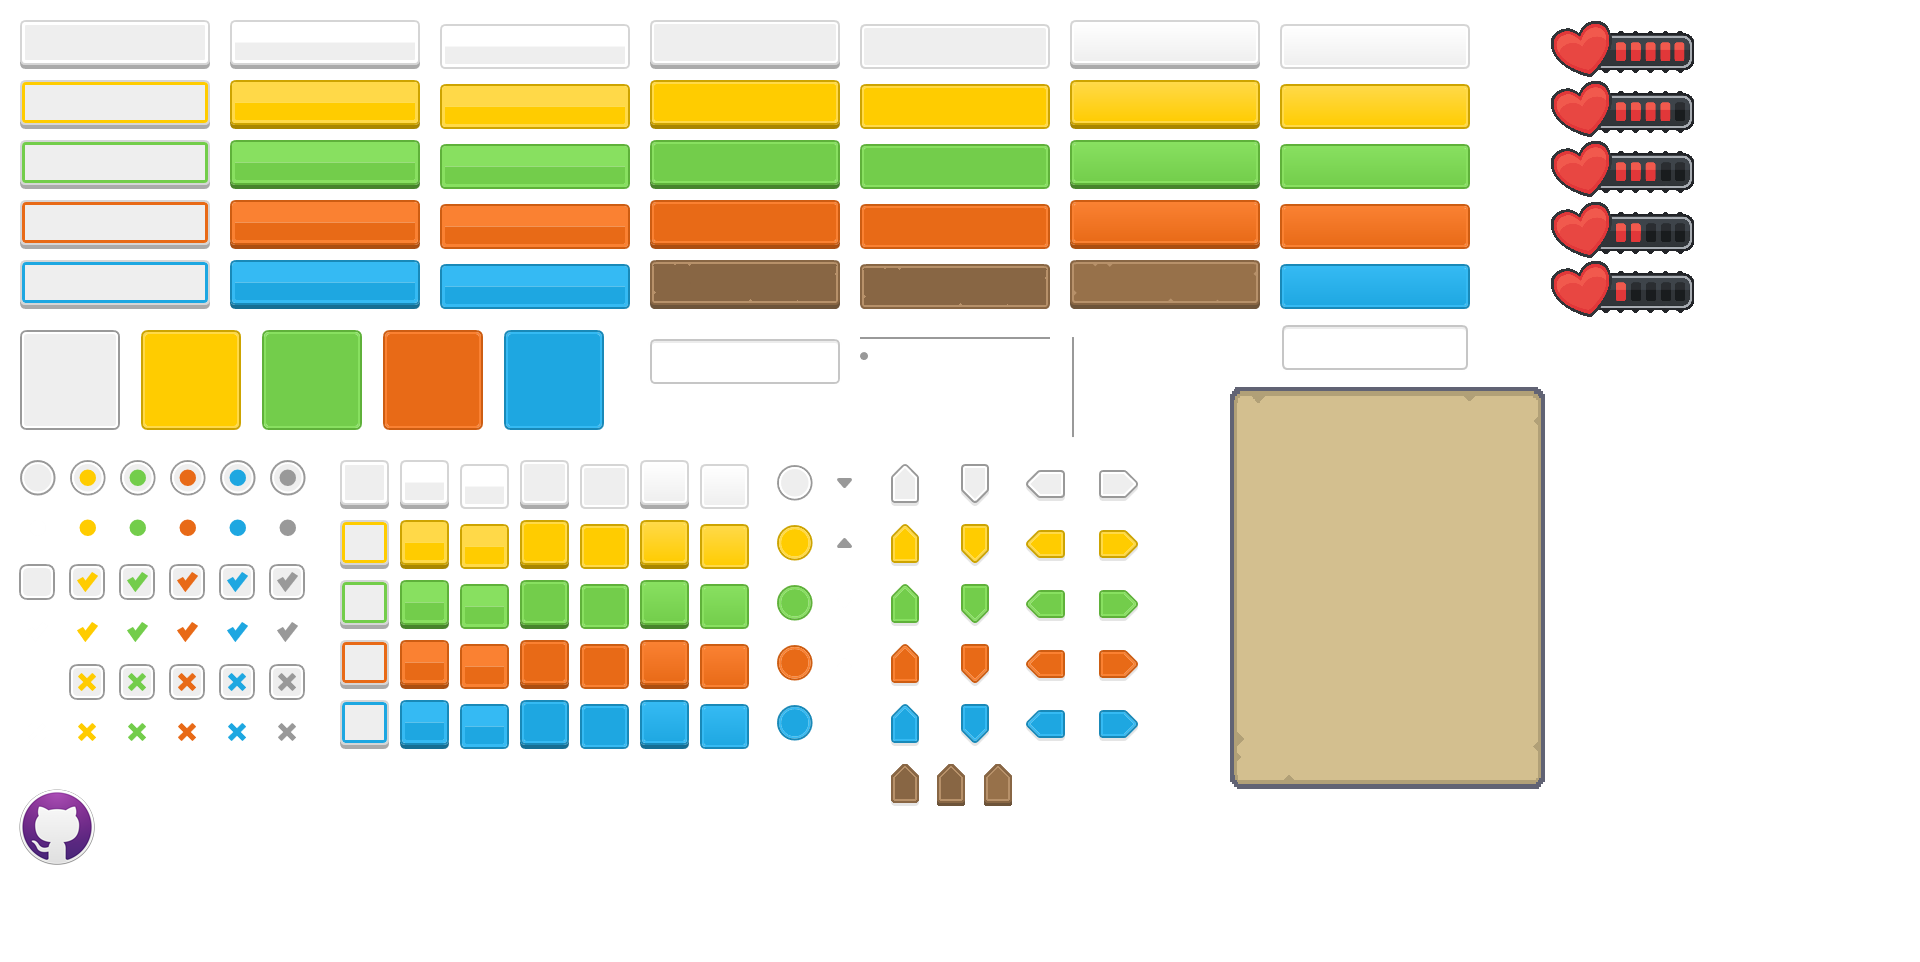
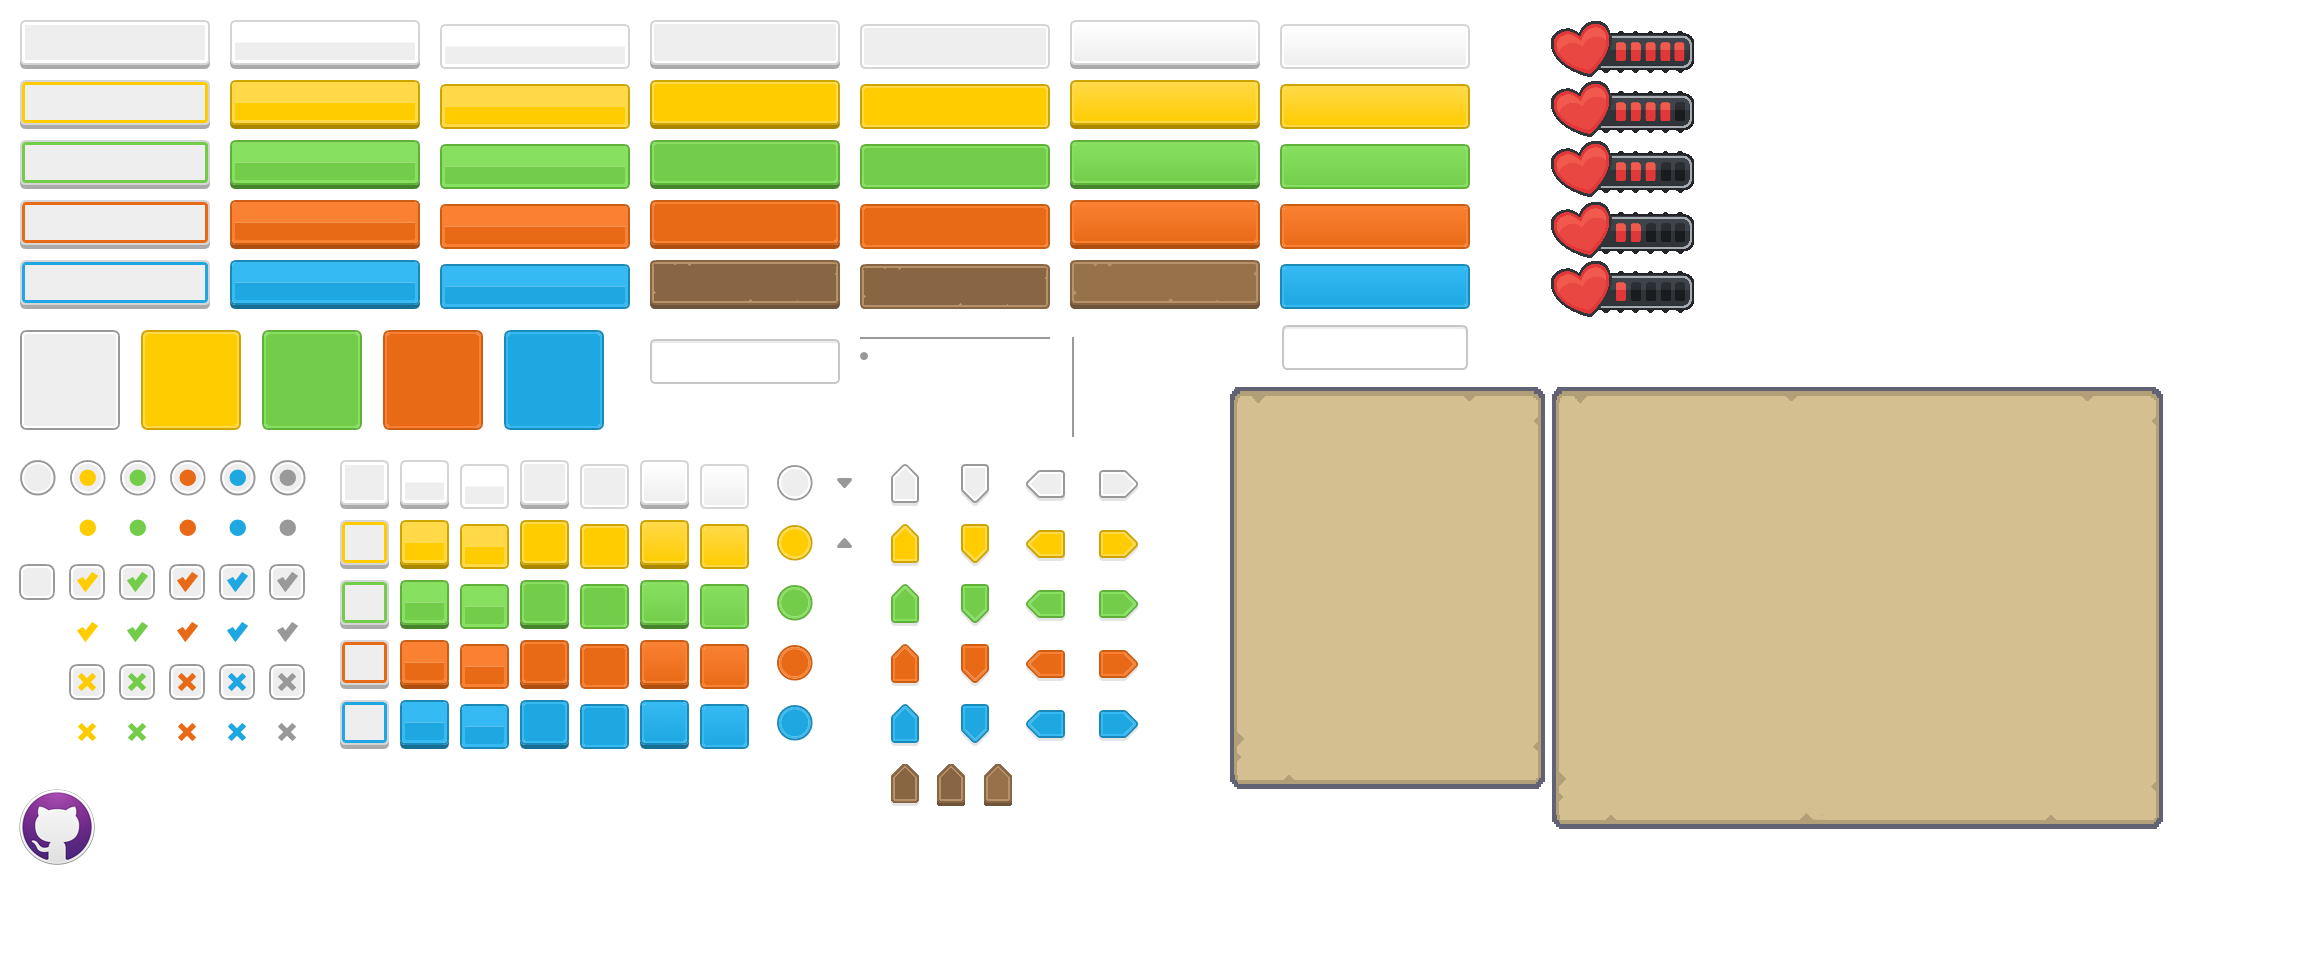
Settings button added

diff --git a/UpsideDown/Motor2D/j1Scene.cpp b/UpsideDown/Motor2D/j1Scene.cpp
@@ -114,6 +114,7 @@ bool j1Scene::Update(float dt)
 		{
 			if (iterator->data->funct == Function::PLAY)
 			{
+				App->entityManager->player->lifes = 3;
 				App->fade->FadeToBlack(this, this, 1.3f);
 				loading_tutorial = true;
 			}
@@ -122,6 +123,12 @@ bool j1Scene::Update(float dt)
 				start_pos = false;
 				App->fade->FadeToBlack(this, this, 1.0f);
 				loading_saved_game = true;
+			}
+			else if (iterator->data->funct == Function::SETTINGS )
+			{
+				pause = !pause;
+				Main_Menu->visible = !Main_Menu->visible;
+				Settings_Menu->visible = !Settings_Menu->visible;
 			}
 			else if (iterator->data->funct == Function::EXIT)
 			{
@@ -153,16 +160,22 @@ bool j1Scene::Update(float dt)
 							pause = !pause;
 							Menu->visible = !Menu->visible;
 						}
+						else if (iterator->data->funct == Function::LOAD && saved_game)
+						{
+							start_pos = false;
+							App->fade->FadeToBlack(this, this, 1.0f);
+							loading_saved_game = true;
+						}
 						else if (iterator->data->funct == Function::SAVE && actual_level != 3)
 						{
 							start_pos = false;
 							App->SaveGame();
 						}
-						else if (iterator->data->funct == Function::LOAD && saved_game )
+						
+						else if (iterator->data->funct == Function::SETTINGS)
 						{
-							start_pos = false;
-							App->fade->FadeToBlack(this, this, 1.0f);
-							loading_saved_game = true;
+							Menu->visible = !Menu->visible;
+							Settings_Menu->visible = !Settings_Menu->visible;
 						}
 						else if (iterator->data->funct == Function::MENU)
 						{
@@ -193,11 +206,7 @@ bool j1Scene::Update(float dt)
 
 	if (actual_level == 0)
 	{
-		App->render->camera.x -= 3*dt;
-		if (App->render->camera.x < -5350)
-		{
-			App->render->camera.x = -50;
-		}
+		App->entityManager->player->position.x = 150;
 	}
 
 	//F1 Starts form the very first level 
@@ -351,10 +360,37 @@ bool j1Scene::PostUpdate()
 
 	bool ret = true;
 
-	if (App->input->GetKey(SDL_SCANCODE_ESCAPE) == KEY_DOWN && App->fade->IsFading() == false && actual_level!=0)
+	if (App->input->GetKey(SDL_SCANCODE_ESCAPE) == KEY_DOWN && App->fade->IsFading() == false)
 	{
-		pause = !pause;
-		Menu->visible = !Menu->visible;
+		if (actual_level != 0)
+		{
+			if (Menu->visible)
+			{
+				pause = !pause;
+				Menu->visible = !Menu->visible;
+			}
+			else if (!Menu->visible && !Settings_Menu->visible)
+			{
+				pause = !pause;
+				Menu->visible = !Menu->visible;
+			}
+			else if (!Menu->visible && Settings_Menu->visible)
+			{
+				Menu->visible = !Menu->visible;
+				Settings_Menu->visible = !Settings_Menu->visible;
+			}
+		}
+		else
+		{
+			if (Settings_Menu->visible == true)
+			{
+				Settings_Menu->visible = !Settings_Menu->visible;
+				Main_Menu->visible = !Main_Menu->visible;
+				pause = !pause;
+			}
+		}
+		
+		
 	}
 	
 
@@ -496,18 +532,25 @@ void j1Scene::Create_UI_Elements()
 {
 	if (level_to_load->data->lvl == 0)
 	{
-		SDL_Rect title_rect = { 0, 0, 500, 300 };
-		App->gui->Create_Image(Element_type::IMAGE, { 275, 0 }, title_rect, true, false, false, title, nullptr);
 
-		Gui_Elements* Play = App->gui->Create_Button(Element_type::BUTTON, { 415, 400 }, { 1070, 260 , 190, 49 }, { 650, 260, 190, 49 }, { 860, 264, 190, 45 }, true, false, App->gui->GetAtlas(), Function::PLAY);
-		Gui_Elements* Load_Game = App->gui->Create_Button(Element_type::BUTTON, { 415, 500 }, { 1070, 260 , 190, 49 }, { 650, 260, 190, 49 }, { 860, 264, 190, 45 }, true, false, App->gui->GetAtlas(), Function::LOAD);
-		Gui_Elements* Exit = App->gui->Create_Button(Element_type::BUTTON, { 415, 600 }, { 1070, 260 , 190, 49 }, { 650, 260, 190, 49 }, { 860, 264, 190, 45 }, true, false, App->gui->GetAtlas(), Function::EXIT);
-		Gui_Elements* GitHub = App->gui->Create_Button(Element_type::BUTTON, { 946, 690 }, { 19, 789 , 77, 77 }, { 19, 789 , 77, 77 }, { 19, 789 , 77, 77 }, true, false, App->gui->GetAtlas(), Function::GITHUB);
+		Main_Menu = App->gui->Create_Image(Element_type::IMAGE, { 0, 0 }, {4000, 4000, (int)App->win->width, (int)App->win->height}, true, false, false, App->gui->GetAtlas(), nullptr);
+
+		SDL_Rect title_rect = { 0, 0, 500, 300 };
+		App->gui->Create_Image(Element_type::IMAGE, { 275, -20 }, title_rect, true, false, false, title, Main_Menu);
+
+		Gui_Elements* Play = App->gui->Create_Button(Element_type::BUTTON, { 415, 300 }, { 1070, 260 , 190, 49 }, { 650, 260, 190, 49 }, { 860, 264, 190, 45 }, true, false, App->gui->GetAtlas(), Function::PLAY, Main_Menu);
+		Gui_Elements* Load_Game = App->gui->Create_Button(Element_type::BUTTON, { 415, 370 }, { 1070, 260 , 190, 49 }, { 650, 260, 190, 49 }, { 860, 264, 190, 45 }, true, false, App->gui->GetAtlas(), Function::LOAD, Main_Menu);
+		Gui_Elements* MainMenu_Settings = App->gui->Create_Button(Element_type::BUTTON, { 415, 440 }, { 1070, 260 , 190, 49 }, { 650, 260, 190, 49 }, { 860, 264, 190, 45 }, true, false, App->gui->GetAtlas(), Function::SETTINGS, Main_Menu);
+		Gui_Elements* Credits = App->gui->Create_Button(Element_type::BUTTON, { 415, 510 }, { 1070, 260 , 190, 49 }, { 650, 260, 190, 49 }, { 860, 264, 190, 45 }, true, false, App->gui->GetAtlas(), Function::NONE, Main_Menu);
+		Gui_Elements* Exit = App->gui->Create_Button(Element_type::BUTTON, { 415, 580 }, { 1070, 260 , 190, 49 }, { 650, 260, 190, 49 }, { 860, 264, 190, 45 }, true, false, App->gui->GetAtlas(), Function::EXIT, Main_Menu);
+		//Gui_Elements* GitHub = App->gui->Create_Button(Element_type::BUTTON, { 946, 690 }, { 19, 789 , 77, 77 }, { 19, 789 , 77, 77 }, { 19, 789 , 77, 77 }, true, false, App->gui->GetAtlas(), Function::GITHUB);
 
 	
 		App->gui->Create_Label(Element_type::LABEL, { 57, 6 }, { 0,0,77, 30 }, true, true, "PLAY", { 255,255,255,0 }, App->font->default, Play);
-		App->gui->Create_Label(Element_type::LABEL, { 25, 6 }, { 0,0,140, 30 }, true, true, "LOAD GAME", { 255,255,255,0 }, App->font->default, Load_Game);
-		App->gui->Create_Label(Element_type::LABEL, { 57, 8 }, { 0,0,70, 30 }, true, true, "EXIT", { 255,255,255,0 }, App->font->default, Exit);
+		App->gui->Create_Label(Element_type::LABEL, { 30, 6 }, { 0,0,120, 30 }, true, true, "CONTINUE", { 255,255,255,0 }, App->font->default, Load_Game);
+		App->gui->Create_Label(Element_type::LABEL, { 30, 6 }, { 0,0,120, 30 }, true, true, "SETTINGS", { 255,255,255,0 }, App->font->default, MainMenu_Settings);
+		App->gui->Create_Label(Element_type::LABEL, { 40, 6 }, { 0,0,100, 30 }, true, true, "CREDITS", { 255,255,255,0 }, App->font->default, Credits);
+		App->gui->Create_Label(Element_type::LABEL, { 57, 6 }, { 0,0,70, 30 }, true, true, "EXIT", { 255,255,255,0 }, App->font->default, Exit);
 	}
 	else if (level_to_load->data->lvl == 3 || level_to_load->data->lvl == 1 || level_to_load->data->lvl == 2)
 	{
@@ -531,8 +574,8 @@ void j1Scene::Create_UI_Elements()
 		}
 		
 		Menu = App->gui->Create_Image(Element_type::IMAGE, { 355, 200 }, { 1230, 387, 315, 402 }, false, false, false, App->gui->GetAtlas());
-
-		Resume = App->gui->Create_Button(Element_type::BUTTON, { 62, 50 }, { 1070, 260 , 190, 49 }, { 650, 260, 190, 49 }, { 860, 264, 190, 45 }, false, false, App->gui->GetAtlas(), Function::RESUME, Menu);
+		
+		Gui_Elements* Resume = App->gui->Create_Button(Element_type::BUTTON, { 62, 50 }, { 1070, 260 , 190, 49 }, { 650, 260, 190, 49 }, { 860, 264, 190, 45 }, false, false, App->gui->GetAtlas(), Function::RESUME, Menu);
 		App->gui->Create_Label(Element_type::LABEL, { 35, 6 }, { 0,0,110, 30 }, false, false, "RESUME", { 255,255,255,0 }, App->font->default, Resume);
 
 		Gui_Elements* Load = App->gui->Create_Button(Element_type::BUTTON, { 62, 120 }, { 1070, 260 , 190, 49 }, { 650, 260, 190, 49 }, { 860, 264, 190, 45 }, false, false, App->gui->GetAtlas(), Function::LOAD, Menu);
@@ -541,10 +584,15 @@ void j1Scene::Create_UI_Elements()
 		Gui_Elements* Save = App->gui->Create_Button(Element_type::BUTTON, { 62, 190 }, { 1070, 260 , 190, 49 }, { 650, 260, 190, 49 }, { 860, 264, 190, 45 }, false, false, App->gui->GetAtlas(), Function::SAVE, Menu);
 		App->gui->Create_Label(Element_type::LABEL, { 25, 6 }, { 0,0,140, 30 }, false, false, "SAVE GAME", { 255,255,255,0 }, App->font->default, Save);
 
-		Gui_Elements* Main_Menu = App->gui->Create_Button(Element_type::BUTTON, { 62, 300 }, { 1070, 260 , 190, 49 }, { 650, 260, 190, 49 }, { 860, 264, 190, 45 }, false, false, App->gui->GetAtlas(), Function::MENU, Menu);
+		Gui_Elements* Settings = App->gui->Create_Button(Element_type::BUTTON, { 62, 260 }, { 1070, 260 , 190, 49 }, { 650, 260, 190, 49 }, { 860, 264, 190, 45 }, false, false, App->gui->GetAtlas(), Function::SETTINGS, Menu);
+		App->gui->Create_Label(Element_type::LABEL, { 30, 6 }, { 0,0,120, 30 }, false, false, "SETTINGS", { 255,255,255,0 }, App->font->default, Settings);
+
+		Gui_Elements* Main_Menu = App->gui->Create_Button(Element_type::BUTTON, { 62, 320 }, { 1070, 260 , 190, 49 }, { 650, 260, 190, 49 }, { 860, 264, 190, 45 }, false, false, App->gui->GetAtlas(), Function::MENU, Menu);
 		App->gui->Create_Label(Element_type::LABEL, { 25, 6 }, { 0,0,140, 30 }, false, false, "MAIN MENU", { 255,255,255,0 }, App->font->default, Main_Menu);
 		
 
 
 	}
+	Settings_Menu = App->gui->Create_Image(Element_type::IMAGE, { 205, 160 }, { 1552, 387, 611, 442 }, false, false, false, App->gui->GetAtlas());
+
 }

diff --git a/UpsideDown/Motor2D/j1Scene.h b/UpsideDown/Motor2D/j1Scene.h
@@ -104,8 +104,10 @@ private:
 	Gui_Elements* Skip = nullptr;
 	Gui_Elements* Skip_Text = nullptr;
 
-	Gui_Elements* Resume = nullptr;
 	Gui_Elements* Menu = nullptr;
+	Gui_Elements* Settings_Menu = nullptr;
+
+	Gui_Elements* Main_Menu = nullptr;
 
 	
 };

diff --git a/UpsideDown/Motor2D/j1Gui_Image.cpp b/UpsideDown/Motor2D/j1Gui_Image.cpp
@@ -72,6 +72,8 @@ bool Gui_Image::PreUpdate()
 	{
 		GlobalPos.x = parent->GlobalPos.x + pos.x;
 		GlobalPos.y = parent->GlobalPos.y + pos.y;
+
+		visible = parent->visible;
 	}
 	else
 	{

diff --git a/UpsideDown/Motor2D/j1Gui.h b/UpsideDown/Motor2D/j1Gui.h
@@ -37,6 +37,7 @@ enum class Function
 	RESUME,
 	LOAD,
 	SAVE,
+	SETTINGS,
 	MENU,
 	NONE
 };
